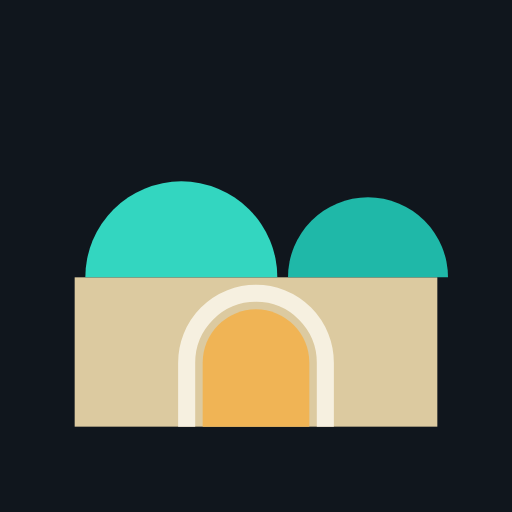
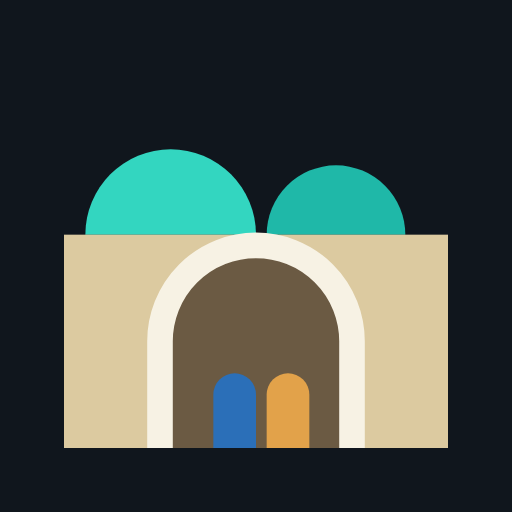
איור נאמן יותר לציון: קשת עם כיתוב, שלט, חלונות ויטראז׳, מדרגות וכיפות
Claude-Session: https://claude.ai/code/session_01KaZtAiNr4PLua2vKdjAdVr

Changed region(s): [[0.125, 0.2812, 0.875, 0.875]]

diff --git a/adapter.js b/adapter.js
@@ -69,7 +69,7 @@
       if(hd){var b=document.createElement("button");b.className="btn sm";b.style.width="100%";b.textContent="יציאה";b.onclick=function(){sb.auth.signOut().then(function(){location.reload()})};hd.appendChild(b)}
     });
   }
-  var LOGO='<svg width="40" height="40" viewBox="0 0 48 48" aria-hidden="true"><rect width="48" height="48" rx="13" fill="#10161d"/><rect x="7" y="26" width="34" height="14" fill="#dccaa0"/><path d="M8 26 a9 9 0 0 1 18 0Z" fill="#33d6c0"/><path d="M27 26 a7.5 7.5 0 0 1 15 0Z" fill="#1fb8a8"/><path d="M19 40 V34 a5 5 0 0 1 10 0 V40Z" fill="#f0b455"/><path d="M17.5 40 V34 a6.5 6.5 0 0 1 13 0 V40" fill="none" stroke="#f6f0e0" stroke-width="1.6"/></svg>';
+  var LOGO='<svg width="40" height="40" viewBox="0 0 48 48" aria-hidden="true"><rect width="48" height="48" rx="13" fill="#10161d"/><path d="M8 22 a8 8 0 0 1 16 0Z" fill="#33d6c0"/><path d="M25 22 a6.5 6.5 0 0 1 13 0Z" fill="#1fb8a8"/><rect x="6" y="22" width="36" height="20" fill="#dccaa0"/><path d="M15 42 V32 a9 9 0 0 1 18 0 V42Z" fill="#6b5a43"/><path d="M15 42 V32 a9 9 0 0 1 18 0 V42" fill="none" stroke="#f7f2e4" stroke-width="2.4"/><path d="M20 42 V37 a2 2 0 0 1 4 0 V42Z" fill="#2b6fb8"/><path d="M25 42 V37 a2 2 0 0 1 4 0 V42Z" fill="#e2a24a"/></svg>';
   function loginView(msg){
     var o=el('<div class="login"><div class="login-art"><div class="login-brand">'+LOGO+'<div><b>כשר מירון</b><small>KASHER MERON</small></div></div><h2>ניהול בתי אירוח במירון,<br>במקום אחד.</h2><p>הזמנות, יומן תפוסה, חשבונות עם בעלי נכסים, משכורות ורווחיות. הכול מסודר ובשליטה.</p><img class="login-scene" src="scene.svg" alt="" aria-hidden="true"></div>'
       +'<div class="login-form"><div class="login-card"><h3>כניסה למערכת</h3><div class="meta">כניסה לצוות בלבד. המשתמשים מוגדרים על ידי המנהל.</div>'

diff --git a/book.html b/book.html
@@ -38,7 +38,7 @@ footer{text-align:center;color:var(--muted);font-size:12px;padding:0 16px 30px}
 <link rel="stylesheet" href="theme.css">
 </head>
 <body>
-<header class="hero"><div class="in"><div class="brand"><svg width="40" height="40" viewBox="0 0 48 48" aria-hidden="true"><rect width="48" height="48" rx="13" fill="#10161d"/><rect x="7" y="26" width="34" height="14" fill="#dccaa0"/><path d="M8 26 a9 9 0 0 1 18 0Z" fill="#33d6c0"/><path d="M27 26 a7.5 7.5 0 0 1 15 0Z" fill="#1fb8a8"/><path d="M19 40 V34 a5 5 0 0 1 10 0 V40Z" fill="#f0b455"/><path d="M17.5 40 V34 a6.5 6.5 0 0 1 13 0 V40" fill="none" stroke="#f6f0e0" stroke-width="1.6"/></svg>
+<header class="hero"><div class="in"><div class="brand"><svg width="40" height="40" viewBox="0 0 48 48" aria-hidden="true"><rect width="48" height="48" rx="13" fill="#10161d"/><path d="M8 22 a8 8 0 0 1 16 0Z" fill="#33d6c0"/><path d="M25 22 a6.5 6.5 0 0 1 13 0Z" fill="#1fb8a8"/><rect x="6" y="22" width="36" height="20" fill="#dccaa0"/><path d="M15 42 V32 a9 9 0 0 1 18 0 V42Z" fill="#6b5a43"/><path d="M15 42 V32 a9 9 0 0 1 18 0 V42" fill="none" stroke="#f7f2e4" stroke-width="2.4"/><path d="M20 42 V37 a2 2 0 0 1 4 0 V42Z" fill="#2b6fb8"/><path d="M25 42 V37 a2 2 0 0 1 4 0 V42Z" fill="#e2a24a"/></svg>
 <div><b>כשר מירון</b><small>KASHER MERON</small></div></div>
 <h1>אירוח כשר במירון, לשבת ולכל ימות השנה</h1><p>בדוק זמינות, בחר דירה והשאר פרטים. נציג יחזור אליך לאישור.</p></div><img class="scene" src="scene.svg" alt="" aria-hidden="true"></header>
 <main>

diff --git a/index.html b/index.html
@@ -141,7 +141,7 @@ body.ro .topbar::after{content:'צפייה בלבד';font-size:12px;font-weight:
 <body>
 <div class="app" id="appwrap" hidden>
   <aside class="side" id="side">
-    <div class="brand"><svg width="40" height="40" viewBox="0 0 48 48" aria-hidden="true"><rect width="48" height="48" rx="13" fill="#10161d"/><rect x="7" y="26" width="34" height="14" fill="#dccaa0"/><path d="M8 26 a9 9 0 0 1 18 0Z" fill="#33d6c0"/><path d="M27 26 a7.5 7.5 0 0 1 15 0Z" fill="#1fb8a8"/><path d="M19 40 V34 a5 5 0 0 1 10 0 V40Z" fill="#f0b455"/><path d="M17.5 40 V34 a6.5 6.5 0 0 1 13 0 V40" fill="none" stroke="#f6f0e0" stroke-width="1.6"/></svg>
+    <div class="brand"><svg width="40" height="40" viewBox="0 0 48 48" aria-hidden="true"><rect width="48" height="48" rx="13" fill="#10161d"/><path d="M8 22 a8 8 0 0 1 16 0Z" fill="#33d6c0"/><path d="M25 22 a6.5 6.5 0 0 1 13 0Z" fill="#1fb8a8"/><rect x="6" y="22" width="36" height="20" fill="#dccaa0"/><path d="M15 42 V32 a9 9 0 0 1 18 0 V42Z" fill="#6b5a43"/><path d="M15 42 V32 a9 9 0 0 1 18 0 V42" fill="none" stroke="#f7f2e4" stroke-width="2.4"/><path d="M20 42 V37 a2 2 0 0 1 4 0 V42Z" fill="#2b6fb8"/><path d="M25 42 V37 a2 2 0 0 1 4 0 V42Z" fill="#e2a24a"/></svg>
 <div><b>כשר מירון</b><small>KASHER MERON</small></div></div>
     <nav role="tablist" id="tabs" aria-label="תפריט ראשי"></nav>
     <div class="sidefoot"><span class="sub" id="status">טוען נתונים…</span><div id="sidebtns"></div></div>
